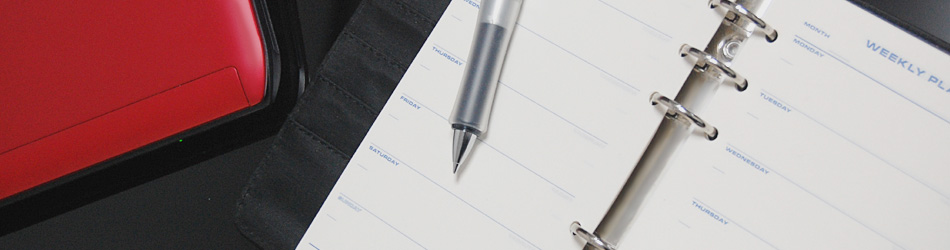
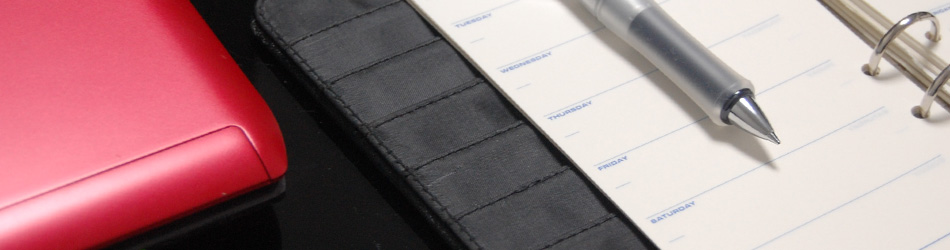
メインビジュアルとテーマのスクリーンショットが像を変更

diff --git a/functions.php b/functions.php
@@ -173,19 +173,19 @@ define( 'HEADER_TEXTCOLOR', '' );
 // Kill custom header test
 define( 'NO_HEADER_TEXT', true );
 
-define('HEADER_IMAGE', '%s/images/headers/accelerate.jpg');
+define('HEADER_IMAGE', '%s/images/headers/features.jpg');
 define('HEADER_IMAGE_WIDTH', 950);
 define('HEADER_IMAGE_HEIGHT', 250);
 register_default_headers( array(
+	'features' => array(
+		'url' => '%s/images/headers/features.jpg',
+		'thumbnail_url' => '%s/images/headers/features-thumbnail.jpg',
+		'description' => 'Features'
+	),
 	'accelerate' => array(
 		'url' => '%s/images/headers/accelerate.jpg',
 		'thumbnail_url' => '%s/images/headers/accelerate-thumbnail.jpg',
 		'description' => 'accelerate'
-	),
-	'bussines_desk_02' => array(
-		'url' => '%s/images/headers/bussines_desk_02.jpg',
-		'thumbnail_url' => '%s/images/headers/bussines_desk_02-thumbnail.jpg',
-		'description' => 'Bussines desk01'
 	),
 	'bussines_desk_01' => array(
 		'url' => '%s/images/headers/bussines_desk_01.jpg',
